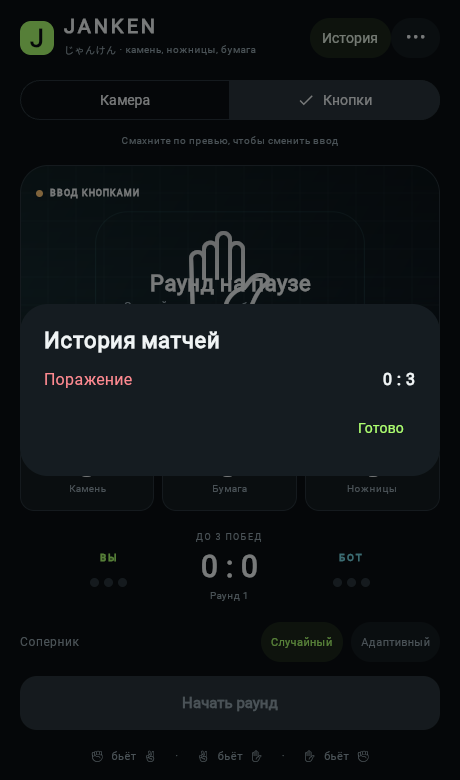
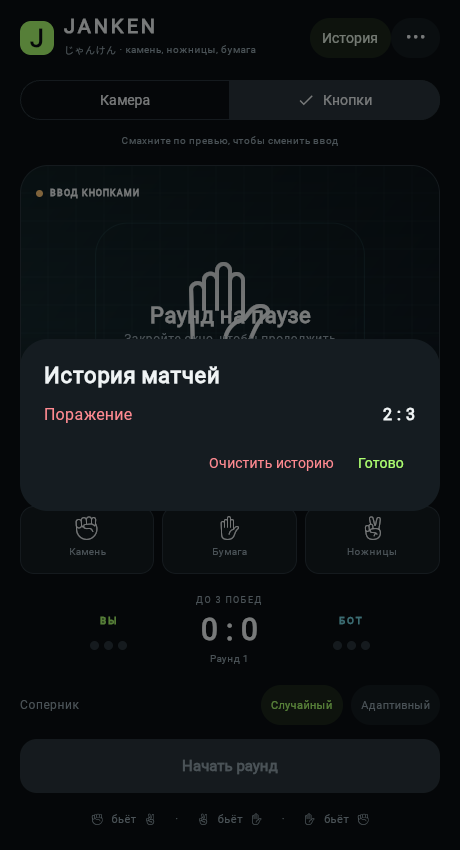
docs(readme): show versus and the clear history action

diff --git a/README.md b/README.md
@@ -9,13 +9,13 @@
 
 ## Демонстрация
 
-<img src="docs/demo-camera.webp" width="320" alt="Портретное демо. Камера распознаёт камень, и карточка результата появляется под счётом.">
+<img src="docs/demo-camera.webp" width="320" alt="Портретное демо. Камера распознаёт камень, а в карточке результата между жестами игрока и бота написано VS.">
 
 Раунд записан в браузере на тестовом видеопотоке. Бот выбирает ход до отсчёта. В адаптивном режиме он учитывает предыдущие раунды матча.
 
-После перезапуска счёт и сыгранные раунды текущего матча восстанавливаются. В разделе «История» остаются результаты завершённых матчей.
+После перезапуска счёт и сыгранные раунды текущего матча восстанавливаются. В разделе «История» можно посмотреть и очистить результаты завершённых матчей.
 
-<img src="docs/demo-history.png" width="320" alt="История матчей в браузере после перезагрузки. На экране виден счёт завершённого матча.">
+<img src="docs/demo-history.png" width="320" alt="История матчей после перезагрузки. Видны счёт завершённого матча и кнопка очистки истории.">
 
 ## Платформы
 
